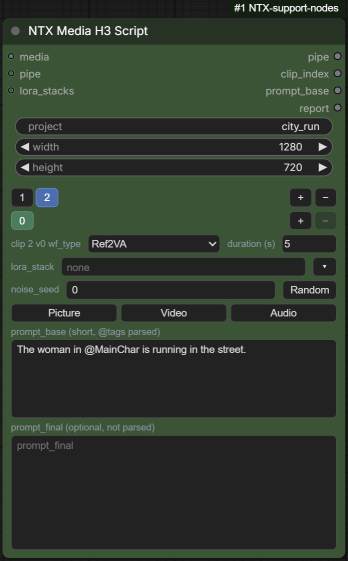
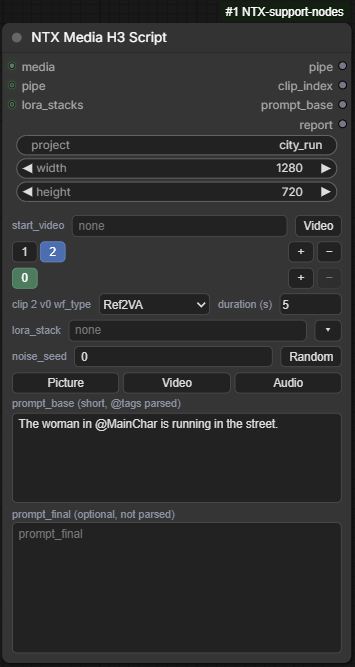
Added start_video to Media H3 Script

diff --git a/web/js/media_h3_script.js b/web/js/media_h3_script.js
@@ -6,11 +6,13 @@
 // The python node holds a string widget, clips_state, a JSON object with the
 // clips of the script and the index of the active one, each clip holding its
 // versions and the index of its active version :
-//   {"active": 0, "clips": [{"active": 0, "versions": [
+//   {"start_video": "", "active": 0, "clips": [{"active": 0, "versions": [
 //       {"wf_type", "duration", "lora_stack", "noise_seed", "prompt_base", "prompt_final"}, ...]}, ...]}
 // (a clip of the older format, the fields without versions, is read as its
 // version 0). It is replaced on the node by a panel (a DOM widget keeping the
-// JSON as its value) : a row of tabs, one per clip numbered from 1, with "+"
+// JSON as its value) : start_video, a setting of the whole script (the tag of a
+// video slot of the Media Loader, typed or picked with its Video button, the
+// same list as the Video tag button), a row of tabs, one per clip numbered from 1, with "+"
 // (add a clip after the last one, with a version 0 taking the workflow type and
 // duration of the active version) and "−" (remove the active clip), a row of
 // tabs for the versions of the active clip numbered from 0, with "+" (add a
@@ -43,7 +45,7 @@ const NODE_ID = ADDON_PREFIX + "MediaH3Script";
 const WIDGET_NAME = "clips_state";
 const WIDGET_TYPE = "NTX_H3_CLIPS";
 const NODE_MIN_WIDTH = 360;
-const PANEL_MIN_HEIGHT = 430;
+const PANEL_MIN_HEIGHT = 460;
 
 // python twins : WF_TYPES, DEFAULT_CLIP, MIN_DURATION, MAX_DURATION
 const WF_TYPES = ["T2VA", "I2VA", "L2VA", "FL2VA", "Ref2VA"];
@@ -192,7 +194,7 @@ function parseState(value) {
     if (!raw || typeof raw !== "object") raw = {};
     const clips = (Array.isArray(raw.clips) ? raw.clips : []).filter((c) => c && typeof c === "object").map(parseClip);
     if (!clips.length) clips.push(newClip());
-    return { active: clampIndex(raw.active, clips.length), clips };
+    return { start_video: String(raw.start_video ?? ""), active: clampIndex(raw.active, clips.length), clips };
 }
 
 // ── LoRA stack picker ─────────────────────────────────────────────────────────
@@ -389,14 +391,36 @@ function makeScriptWidget(node, inputName, value) {
         return [row, stackRow, seedRow, buttons, ...prompts];
     }
 
+    // start_video : typed, or picked among the video tags of the loader
+    function startRow() {
+        const input = el("input", { type: "text", class: "nhs-stack", value: state.start_video, placeholder: "none",
+            spellcheck: false, title: "The tag of the video the first clip continues (empty : none)",
+            oninput: () => { state.start_video = input.value; },
+            onchange: changed });
+        const video = BUTTONS.find((spec) => spec.kind === "videos");
+        const pick = el("button", { type: "button", title: "Pick the tag of a video slot of the Media Loader",
+            onclick: (ev) => {
+                ev.stopPropagation();
+                openTagMenu(node, video, (tag) => { input.value = tag; state.start_video = tag; changed(); });
+            } }, video.label);
+        return el("div", { class: "nhs-row" }, el("label", {}, "start_video"), input, pick);
+    }
+
+    // the tab rows, kept to be replaced when their titles change
+    let clipRow = null, versionRow = null;
+
     // the tab titles follow the fields of their clip and version
     function refreshTabs() {
-        panel.children[0]?.replaceWith(tabs());
-        panel.children[1]?.replaceWith(versionTabs());
+        const rows = [tabs(), versionTabs()];
+        clipRow?.replaceWith(rows[0]);
+        versionRow?.replaceWith(rows[1]);
+        [clipRow, versionRow] = rows;
     }
 
     function render() {
-        panel.replaceChildren(tabs(), versionTabs(), ...fields());
+        clipRow = tabs();
+        versionRow = versionTabs();
+        panel.replaceChildren(startRow(), clipRow, versionRow, ...fields());
     }
 
     const widget = node.addDOMWidget(inputName, WIDGET_TYPE, panel, {

diff --git a/py/media_h3_script.py b/py/media_h3_script.py
@@ -8,7 +8,7 @@ import os
 
 from ..config_variables import ADDON_PREFIX, ADDON_CATEGORY
 from .logging import logger
-from .media_loader import parse_prompt_media
+from .media_loader import parse_prompt_media, decode_slot, normalize_tag, is_enabled, PARSER_KINDS
 from .seed import SEED_MAX
 from .utils import MEDIA_REFS_TYPE, DICT_TYPE, clone_data
 
@@ -62,9 +62,10 @@ def parse_clip(clip: dict) -> dict:
 # the clips_state widget holds a JSON object with the clips of the script, in order, and the index
 # (from 0) of the active one, the tab selected on the node ; each clip holds its versions, in order,
 # and the index (from 0, the version number) of its active one :
-#   {"active": 1, "clips": [{"active": 0, "versions": [
+#   {"start_video": "", "active": 1, "clips": [{"active": 0, "versions": [
 #       {"wf_type": "T2VA", "duration": 5, "lora_stack": "", "noise_seed": 0, "prompt_base": "...", "prompt_final": "..."}, ...]}, ...]}
-# where lora_stack names an entry of the lora_stacks input (empty : none)
+# where lora_stack names an entry of the lora_stacks input (empty : none), and start_video, a setting
+# of the whole script, the tag of a video slot of the media input (empty : none)
 # A missing or broken field gets its default, an empty list one default clip or version, and the
 # active indexes are clamped to their lists
 def parse_clips_state(clips_state: str) -> dict:
@@ -78,7 +79,34 @@ def parse_clips_state(clips_state: str) -> dict:
     clips = [parse_clip(clip) for clip in state.get("clips") or [] if isinstance(clip, dict)]
     if not clips:
         clips.append({"active": 0, "versions": [dict(DEFAULT_VERSION)]})
-    return {"active": clamp_index(state.get("active", 0), len(clips)), "clips": clips}
+    return {"start_video": str(state.get("start_video") or ""), "active": clamp_index(state.get("active", 0), len(clips)),
+            "clips": clips}
+
+# the video slot of a media bundle tagged start_video (case-insensitively, like the @tag references
+# of the prompt) ; a tag no slot holds, held by a slot that is not a video, or by a slot switched
+# off fails the prompt
+def find_start_video(media: dict, start_video: str) -> dict:
+    key = start_video.lower()
+    videos = []
+    for kind in PARSER_KINDS:
+        for entry in media.get(kind, []):
+            tag = normalize_tag(entry.get("tag")) if isinstance(entry, dict) else None
+            if tag is None:
+                continue
+            if kind == "videos":
+                videos.append(tag)
+            if tag.lower() != key:
+                continue
+            spec = PARSER_KINDS[kind]
+            if kind != "videos":
+                raise ValueError(f"MediaH3Script : start_video {start_video} is the tag of {spec['slot']} {int(entry['slot']) + 1} "
+                                 f"({entry['name']}), not of a video")
+            if not is_enabled(entry):
+                raise ValueError(f"MediaH3Script : start_video {start_video} : video {int(entry['slot']) + 1} ({entry['name']}) "
+                                 "is switched off")
+            return entry
+    raise ValueError(f"MediaH3Script : start_video {start_video} : no slot of the Media Loader has this tag "
+                     f"(video tags of the Media Loader : {', '.join(videos) or 'none'})")
 
 # ===== NODES ==================================================================================================================================
 
@@ -92,7 +120,8 @@ class MediaH3Script(io.ComfyNode):
     version is a copy of the active one) ; each version has a workflow type, a duration, a
     lora_stack, a noise_seed, a short prompt_base and an optional longer prompt_final ; the Picture / Video /
     Audio buttons above the prompts insert the @tag of a slot of the Media Loader in prompt_base
-    (prompt_final is not parsed).
+    (prompt_final is not parsed). Above the clips, start_video is a setting of the whole script : the
+    tag of a video slot of the Media Loader, typed or picked with its Video button.
 
     A run works on the active version of the active clip, the tabs selected on the node : the
     general settings and the version's fields go into the pipe (project, width, height, clip_index,
@@ -165,6 +194,15 @@ class MediaH3Script(io.ComfyNode):
                 logger.info(f"lora_stack : {stack_name} ({len(stack) if isinstance(stack, (list, tuple)) else '?'} LoRAs)")
             else:
                 logger.warning(f"lora_stack : {stack_name} not found in lora_stacks, no lora_stack in the pipe")
+
+        # the first clip continues the video tagged start_video, if any : its frames and audio, with
+        # their edits applied, become the chain the H3 Motion Context nodes continue
+        start_video = state["start_video"].strip()
+        if start_video and clip_index <= 1:
+            entry = find_start_video(media if isinstance(media, dict) else {}, start_video)
+            pipe["chain_video"] = decode_slot("chain_video", "video_frames", entry)
+            pipe["chain_audio"] = decode_slot("chain_audio", "video_audio", entry)
+            report += f"\nstart_video {start_video} => chain_video + chain_audio => video {int(entry['slot']) + 1} ({entry['name']})"
 
         # an empty prompt_final (or blank only) falls back on the parsed prompt_base
         pipe["prompt_final"] = clip["prompt_final"] if clip["prompt_final"].strip() else prompt_base

diff --git a/README.md b/README.md
@@ -2736,6 +2736,15 @@ is not connected), there is no `lora_stack` key and the console shows a warning 
 found. The name is matched exactly, spaces around it ignored. Note that a PipeCustom only holds
 the inputs that are connected, so an unconnected `stack2` is "not found".
 
+`start_video` is a setting of the whole script, not of a clip: the tag of a **video** slot of the
+MediaLoader that the first clip continues. On a run of the **first clip** (`clip_index` `1`), that
+video's frames and audio track — with the slot's edits applied, decoded as by the MediaParser —
+go into the pipe as `chain_video` and `chain_audio`, for **LoadH3MotionContextLatent** to pass on.
+The tag is matched ignoring case, like the `@tag` references. A tag no slot holds, a tag held by a
+picture or audio slot, or a video slot switched off **fails the prompt** (the error lists the
+video tags the loader holds). When `start_video` is empty, or on any later clip, it is ignored —
+not even checked.
+
 Switching tabs changes the node's inputs, so the next run picks up the newly selected clip or
 version.
 
@@ -2749,7 +2758,13 @@ version.
 | `project` | STRING | The identifier name of the video project. Default empty. |
 | `width` | INT | The width of the video: `64`–`8192`, step `16`, default `1280`. |
 | `height` | INT | The height of the video: `64`–`8192`, step `16`, default `720`. |
-| `clips_state` | STRING (hidden) | Managed by the frontend, not edited by hand: a JSON object with the clips, the index of the active clip, and in each clip its versions and the index of its active version. |
+| `clips_state` | STRING (hidden) | Managed by the frontend, not edited by hand: a JSON object with `start_video`, the clips, the index of the active clip, and in each clip its versions and the index of its active version. |
+
+Setting of the script (on the clip panel):
+
+| Field | Type | Description |
+|---|---|---|
+| `start_video` | STRING | The tag of the MediaLoader video the first clip continues; empty for none. Default empty. |
 
 Fields of a version (on the clip panel):
 
@@ -2766,10 +2781,10 @@ Fields of a version (on the clip panel):
 
 | Output | Type | Description |
 |---|---|---|
-| `pipe` | DICT | The input pipe plus: `project`, `width`, `height`, `clip_index` (from 1), `version_index` (from 0), `wf_type`, `duration`, `noise_seed`, `prompt_base` (parsed), `prompt_final` (as written, or the parsed `prompt_base` when empty), `lora_stack` (only when found), and the media referenced by `prompt_base` under the MediaParser keys (`picture_N`, `video_N` + `video_audio_N`, `audio_N`). Keys already present in the input pipe are overwritten. |
+| `pipe` | DICT | The input pipe plus: `project`, `width`, `height`, `clip_index` (from 1), `version_index` (from 0), `wf_type`, `duration`, `noise_seed`, `prompt_base` (parsed), `prompt_final` (as written, or the parsed `prompt_base` when empty), `lora_stack` (only when found), the media referenced by `prompt_base` under the MediaParser keys (`picture_N`, `video_N` + `video_audio_N`, `audio_N`), and for the first clip with a `start_video`, `chain_video` (IMAGE, the frames) and `chain_audio` (AUDIO, `None` when the video has no audio track). Keys already present in the input pipe are overwritten. |
 | `clip_index` | INT | The number of the active clip, from 1. |
 | `prompt_base` | STRING | The parsed `prompt_base`, references replaced by their labels. |
-| `report` | STRING | The MediaParser report of the references of `prompt_base` (one line per referenced tag; `no tag reference in the prompt` when there is none). |
+| `report` | STRING | The MediaParser report of the references of `prompt_base` (one line per referenced tag; `no tag reference in the prompt` when there is none), followed for the first clip with a `start_video` by a line `start_video <tag> => chain_video + chain_audio => video N (file name)`. |
 
 ### Example
 
@@ -2794,6 +2809,10 @@ and `prompt_final` left empty, the pipe gets
 
 The clip panel replaces the `clips_state` widget. From top to bottom:
 
+- **`start_video`** — a text field, with a **Video** button that lists the tagged video slots of
+  the MediaLoader connected to `media`: the same list as the **Video** tag button above the
+  prompt (see the MediaParser *Frontend* section), but clicking a tag copies it into the field.
+  The tag can always be typed, changed or erased by hand.
 - **Clip tabs** — one button per clip, numbered from 1; the active one is blue. **+** adds a clip
   at the end, with a single version 0 taking the workflow type and duration of the active
   version (the other fields start empty / at `0`), and selects it. **−** removes the active clip;
